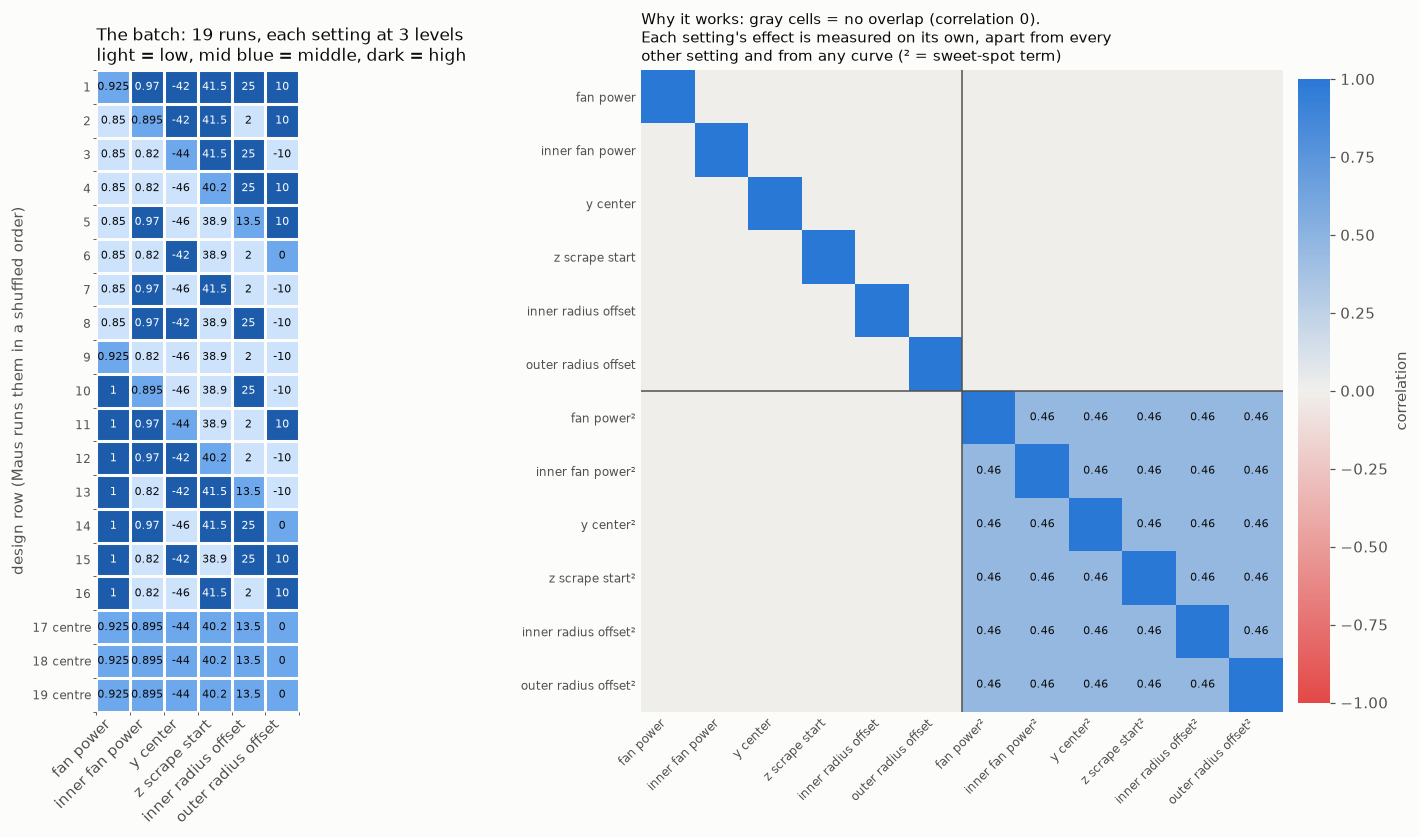
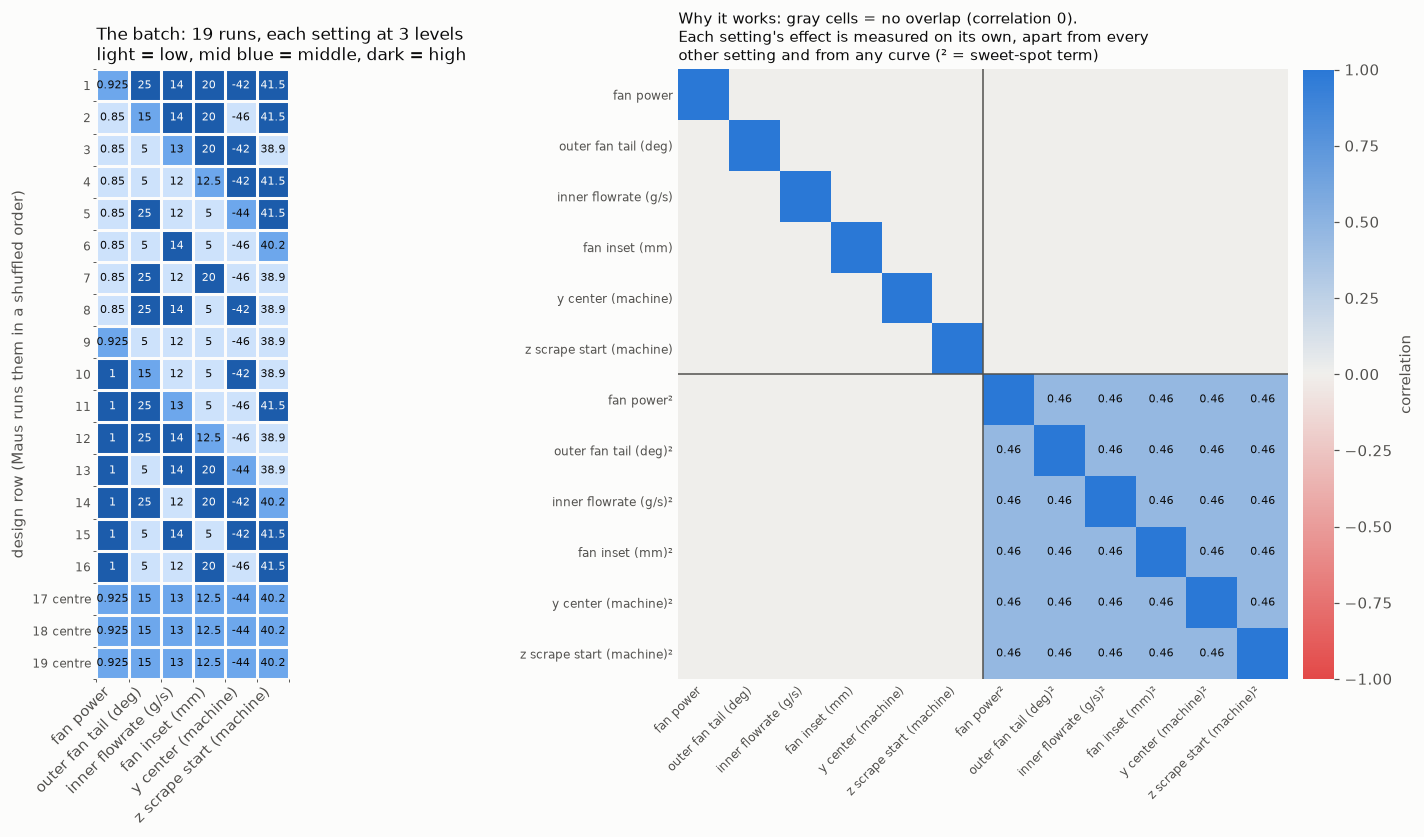
docs: add the control loop view and controllability of the doe

diff --git a/documentation/doe.md b/documentation/doe.md
@@ -3,20 +3,11 @@
 The question: which recipe settings should Maus change, and in which
 direction? The run history cannot answer it cleanly (see
 [analysis.md](analysis.md)): settings moved together and were tried few times
-each. So we hand Maus a small designed batch, about 20 runs, that varies six
+each. So we hand Maus a small designed batch, 19 runs, that varies six
 settings independently. Once those runs are back, the analysis says which knob
 to turn, which way, and whether a setting has a sweet spot in the middle.
 
 We never send anything to a robot. The run sheet is a file Maus runs by hand.
-
-```mermaid
-flowchart LR
-  S["history shortlist"] --> D["run sheet"]
-  D --> M["Maus runs"]
-  M --> R["fill run_id"]
-  R --> A["analyze"]
-  A --> F["figures, onnx"]
-```
 
 Code: `code/maus_export/doe.py` (design), `code/maus_export/doe_analyze.py`
 (analysis) and `code/maus_export/doe_figures.py` (figures), all tested offline
@@ -28,6 +19,183 @@ pixi run doe --robot <robot>            # writes data/doe/<doe_id>.csv/.parquet
 pixi run -e ml doe-analyze data/doe/<doe_id>.parquet   # after the runs
 pixi run -e ml doe-figures              # redraws the figures on this page
 ```
+
+## The control view
+
+Seen from above, the crêpe robot is a plant in a feedback loop. This
+experiment works on the **outer loop**: from one batch of crêpes to the next.
+
+<!-- diagram: doe-control-loop -->
+```mermaid
+flowchart LR
+    r([Quality target r]) --> cmp((compare))
+    cmp -->|gap e| ctrl[DoE analysis]
+    ctrl -->|u: 6 settings| fw
+    subgraph plant [Crepe robot, the plant]
+        fw[Robot firmware] -->|motion, heat| proc[Dispense to fold]
+    end
+    d[Disturbances d] -.-> proc
+    proc --> cam[Hotplate camera]
+    proc --> logs[Phase logs]
+    proc --> env[Sensor boards]
+    cam -->|images| vis[Vision scores]
+    logs -->|events| stat[Status, timing]
+    env -->|temp, humidity| dm[Measured d]
+    vis --> y[Outputs y]
+    stat --> y
+    y -->|once per batch| cmp
+    dm -.->|covariates| ctrl
+
+    style ctrl fill:#2a78d6,stroke:#1c5cab,color:#ffffff
+    style y fill:#cde2fb,stroke:#2a78d6,color:#0b0b0b
+```
+<!-- /diagram -->
+
+**Two loops, two timescales.**
+
+- **Inner loops (Maus, real time).** The robot firmware on the Raspberry Pi
+  and the Duet boards ([system.md](system.md)) closes fast loops on motion
+  and heating, milliseconds to seconds, inside one run. We do not touch them.
+- **Outer loop (this work, run to run).** One crêpe is one sample. The
+  recipe settings `u` stay fixed during a run. After a run the quality `y` is
+  measured and compared with the target `r`, and the settings for the next
+  runs are chosen. Today a person closes this loop by hand, by trial and
+  error. That is why the history is hard to read.
+
+**What the DoE does in this loop.** It is system identification. The batch
+measures how strongly each input moves each output (the gain, our "main
+effect") and whether the response bends (curvature). With that map, the next
+batch can step `u` towards `r` on purpose. #65 (Bayesian optimization) is the
+controller that automates that step.
+
+**Is it a multimodal control system?** On the sensing side, yes. The outputs
+come from different kinds of sensors that each see a different part of the
+crêpe:
+
+| Modality | Sensor | Becomes |
+| --- | --- | --- |
+| Images | hotplate camera | vision scores: spread size, coverage, centring, fold shape |
+| Event logs | robot software | phase reached, status, timing |
+| Environment | sensor boards | room temperature and humidity (measured disturbance) |
+| Video | hotplate camera | kept for review, not scored yet |
+
+All of them feed one decision per batch. Actuation is a single modality: the
+recipe parameters. So the precise name is a **multi-input multi-output (MIMO)
+run-to-run control loop with multimodal feedback**. It is MIMO because 6
+inputs drive 9 outputs and the inputs interact. Fan power and fan tail both
+shape the spread, for example.
+
+## What varies and what does not
+
+Every signal in the loop, with its role, so it is clear what the batch
+changes:
+
+```mermaid
+flowchart LR
+    subgraph U [u: varied by the batch]
+        fp[Fan power]
+        ft[Outer fan tail]
+        fl[Inner flowrate]
+        fi[Fan inset]
+        yc[Y center]
+        zs[Z scrape start]
+    end
+    subgraph F [held fixed]
+        hp[Hotplate setpoint]
+        tp[Topping: plain]
+        rb[One robot]
+        rr[Rest of recipe]
+    end
+    subgraph D [disturbances d]
+        rc[Room climate]
+        bb[Batter batch]
+        pw[Plate wear]
+    end
+    U --> P[Crepe robot]
+    F --> P
+    D -.-> P
+    P --> Y[y: success, checks, vision scores]
+
+    style U fill:#cde2fb,stroke:#2a78d6
+    style F fill:#f0efec,stroke:#c3c2b7
+    style D fill:#fbe3e3,stroke:#e34948
+```
+
+| Role | Symbol | Signals |
+| --- | --- | --- |
+| Target | `r` | crêpe passes every check: spread big, covered and centred, folds square |
+| Varied inputs | `u` | the 6 settings below, 3 levels each |
+| Held fixed | | hotplate setpoint, topping (plain), robot, every other recipe setting |
+| Measured disturbances | `d` | room temperature and humidity, used as covariates |
+| Unmeasured disturbances | `d` | batter batch, plate wear, slow drift. Shuffled run order keeps them from looking like effects |
+| Outputs | `y` | success, spread / fold 1 / fold 2 check results, 5 vision scores |
+
+## Controllability
+
+A setting only belongs in `u` if Maus can set it for a run in the robot
+software they use today. We checked each candidate against the run history.
+
+**The parameter set changed in October.** From 16 Oct on maus-quin and
+27 Oct on maus-pixi (maus-otto always), the robot software uses a new
+parameter set. Some settings disappeared, absolute ring radii replaced the
+radius offsets, and `concentric_fan_tail_deg` was renamed
+`concentric_outer_fan_tail_deg` (same value carried over). The tools read old
+runs under the new name (`RENAMED_PARAMETERS` in `to_table.py`). They refuse a
+setting that is not in the latest runs.
+
+| Setting | Type | In current software? | Decision |
+| --- | --- | --- | --- |
+| `dispense.batter.fan_power` | recipe | yes | **vary** |
+| `dispense.batter.concentric_outer_fan_tail_deg` | recipe | yes (renamed) | **vary** |
+| `dispense.batter.concentric_inner_flowrate_g_s` | recipe | yes | **vary**, small step |
+| `dispense.batter.concentric_fan_inset_mm` | recipe | yes | **vary** |
+| `machine.y_center` | machine geometry | yes | **vary**, confirm with Maus |
+| `machine.z_scrape_start` | machine geometry | yes | **vary**, confirm with Maus |
+| `dispense.batter.concentric_inner_fan_power` | recipe | no, gone in the new set | dropped |
+| `dispense.batter.concentric_inner_radius_offset_mm` | recipe | no, replaced by `concentric_inner_radius_mm` | dropped |
+| `dispense.batter.concentric_outer_radius_offset_mm` | recipe | no, replaced by `concentric_outer_radius_mm` | dropped |
+
+- **Machine geometry.** `y_center` (plate centre position) and
+  `z_scrape_start` (height where the scraper starts) are settings, and
+  operators did change them on every robot. They describe the machine,
+  though, not the recipe. Before running the batch, ask Maus whether they may
+  be changed from run to run. If not, drop them from `DEFAULT_FACTORS`; the
+  design then uses 4 factors.
+- **Ring radii.** The new absolute radii (`concentric_inner_radius_mm`,
+  `concentric_outer_radius_mm`) have only ever run at one value each, so
+  there is no tested range to vary them in. A later batch can include them if
+  Maus picks a range.
+- The training dataset uses the same rule: its candidate inputs
+  (`training_dataset.py`) are the run-start settings of the current
+  software.
+
+## Settings varied
+
+| Setting | Type | Low / middle / high | Level source | Why |
+| --- | --- | --- | --- | --- |
+| `dispense.batter.fan_power` | recipe | 0.85 / 0.925 / 1.0 | succeeded | raising it helped spread size (#25) |
+| `dispense.batter.concentric_outer_fan_tail_deg` | recipe | 5 / 15 / 25 | succeeded | shapes the spread, 8 values tried |
+| `dispense.batter.concentric_inner_flowrate_g_s` | recipe | 12 / 13 / 14 | near success | batter amount in the centre, untested away from 13 |
+| `dispense.batter.concentric_fan_inset_mm` | recipe | 5 / 12.5 / 20 | succeeded | lowering it helped fold 1 (#25) |
+| `machine.y_center` | machine | -46 / -44 / -42 | succeeded | lowering it helped both folds (#25) |
+| `machine.z_scrape_start` | machine | 38.9 / 40.2 / 41.5 | succeeded | helped fold 1, mixed evidence (#25) |
+
+Levels as of the current export. `pixi run doe` prints the ones it uses.
+
+**Levels.** The middle level is always the midpoint. Low and high are picked
+safest first:
+
+1. **succeeded:** the range where hot full cycles already succeeded (the #25
+   shortlist safe range, or the successful runs directly).
+2. **near success:** only one value ever succeeded, so the batch tests a
+   small step around it (20% of the range ever run). Inner flowrate only ever
+   succeeded at 13 g/s; every other value it ran at failed (0 of 9).
+3. **ran:** nothing succeeded, so the full range already run. Not used today.
+
+The generator refuses any level outside what the robots already ran. One
+risk to know about: outer fan tail 5° succeeded once in 7 runs. The extreme
+corners of the batch are where failures are most likely, and a failed run is
+still a result.
 
 ## Why a Definitive Screening Design
 
@@ -46,40 +214,13 @@ setting at three levels (low, middle, high) in about two runs per setting.
 
 **How to read it.** Left: the batch, one row per run and one column per
 setting, with the value to set (light = low, mid blue = middle, dark = high).
-Every setting is low in 7 runs, middle in 5 and high in 7. The last 3 rows
-are centre runs with every setting in the middle. Maus runs the rows in a
-shuffled order, given in the run sheet. Right: how much any two terms move
-together in this batch. The gray cells are exactly 0, so no setting's effect
-can be mistaken for another's or for a curve. Only the curve terms (²) share
-some overlap with each other (0.46), which is normal for this design and why
-curvature is a second, weaker read.
-
-## Settings varied
-
-The six settings come from the history shortlist (`data/analysis/shortlist.json`):
-
-| Setting | Low / middle / high | Why |
-| --- | --- | --- |
-| `dispense.batter.fan_power` | 0.85 / 0.925 / 1.0 | raising it helped spread size |
-| `dispense.batter.concentric_inner_fan_power` | 0.82 / 0.895 / 0.97 | always moved with fan power |
-| `machine.y_center` | -46 / -44 / -42 | lowering it helped both folds |
-| `machine.z_scrape_start` | 38.9 / 40.2 / 41.5 | helped fold 1, mixed evidence |
-| `dispense.batter.concentric_inner_radius_offset_mm` | 2 / 13.5 / 25 | trade-off: success vs spread |
-| `dispense.batter.concentric_outer_radius_offset_mm` | -10 / 0 / 10 | always moved with inner offset |
-
-Levels as of the current export; `pixi run doe` prints the ones it uses.
-
-Pairs that always moved together in the history are varied separately here,
-so the batch can finally tell them apart.
-
-**Levels.** Low and high are the shortlist's safe range: the values where runs
-already succeeded. A setting without a safe range uses the full range already
-run. The generator refuses any level outside what the robots already ran, so
-the batch never asks for an untested setting. The middle level is the midpoint
-of low and high. The command prints the levels it chose.
-
-**Held fixed.** One robot and the plain topping per batch, everything else at
-the current recipe, hotplate at its usual setpoint.
+Machine geometry settings are marked. Every setting is low in 7 runs, middle
+in 5 and high in 7. The last 3 rows are centre runs with every setting in the
+middle. Maus runs the rows in a shuffled order, given in the run sheet.
+Right: how much any two terms move together in this batch. The gray cells are
+exactly 0, so no setting's effect can be mistaken for another's or for a
+curve. Only the curve terms (²) share some overlap with each other (0.46),
+which is normal for this design and why curvature is a second, weaker read.
 
 ## Run sheet
 
@@ -116,8 +257,8 @@ prints, per outcome, the settings with p < 0.1 and their direction, and writes
 
 For every outcome it also draws `data/doe/<doe_id>-<outcome>.png`. This is
 what one looks like, on a **simulated** batch (made-up responses, no real
-runs yet) where fan power raises the spread size, y center lowers it, the
-inner radius offset has a sweet spot and the other three do nothing:
+runs yet) where fan power raises the spread size, inner flowrate lowers it,
+y center has a sweet spot and the other three do nothing:
 
 ![Example result on a simulated batch: which setting to change and which way, with the trend per setting](../assets/doe-results-example.png)
 
@@ -130,11 +271,15 @@ taken out), the fitted trend as a line, and the best level as a big dot. In
 the example the analysis finds exactly the three planted effects. On the real
 batch the panels also show the setting values under low / mid / high.
 
+In control terms the left panel is the gain of each input on this output, and
+the right panels are the input-output curves around the operating point.
+
 ## Model
 
 `code/models/doe-response/` fits the same model and exports it to ONNX
-(inputs: coded settings, outputs: predicted outcomes). `model.onnx` and
-`model.json` are created once a real batch is back:
+(inputs: coded settings, outputs: predicted outcomes). That is the plant
+model the outer loop needs. `model.onnx` and `model.json` are created once a
+real batch is back:
 
 ```bash
 cd code
@@ -144,4 +289,4 @@ pixi run -e ml python models/doe-response/train.py data/doe/<doe_id>.parquet
 ## Next
 
 Sequential Bayesian optimization on top of this batch (suggest the next 4
-runs) is tracked in a follow-up issue.
+runs, closing the outer loop automatically) is tracked in #65.

diff --git a/readme.md b/readme.md
@@ -194,6 +194,36 @@ Designed experiment for Maus: `pixi run doe --robot <robot>` writes a run sheet 
 `pixi run -e ml doe-analyze <sheet>` reads it back once the runs are done.
 See [documentation/doe.md](documentation/doe.md).
 
+Seen from above, this is a run-to-run feedback loop: the batch measures how
+each recipe setting moves the crêpe quality, read through camera, logs and
+sensors.
+
+<!-- diagram: doe-control-loop -->
+```mermaid
+flowchart LR
+    r([Quality target r]) --> cmp((compare))
+    cmp -->|gap e| ctrl[DoE analysis]
+    ctrl -->|u: 6 settings| fw
+    subgraph plant [Crepe robot, the plant]
+        fw[Robot firmware] -->|motion, heat| proc[Dispense to fold]
+    end
+    d[Disturbances d] -.-> proc
+    proc --> cam[Hotplate camera]
+    proc --> logs[Phase logs]
+    proc --> env[Sensor boards]
+    cam -->|images| vis[Vision scores]
+    logs -->|events| stat[Status, timing]
+    env -->|temp, humidity| dm[Measured d]
+    vis --> y[Outputs y]
+    stat --> y
+    y -->|once per batch| cmp
+    dm -.->|covariates| ctrl
+
+    style ctrl fill:#2a78d6,stroke:#1c5cab,color:#ffffff
+    style y fill:#cde2fb,stroke:#2a78d6,color:#0b0b0b
+```
+<!-- /diagram -->
+
 ![Example DoE result on a simulated batch: which setting to change and which way](assets/doe-results-example.png)
 
 Tests and lint: `pixi run test`, `pixi run lint`, `pixi run fmt`
